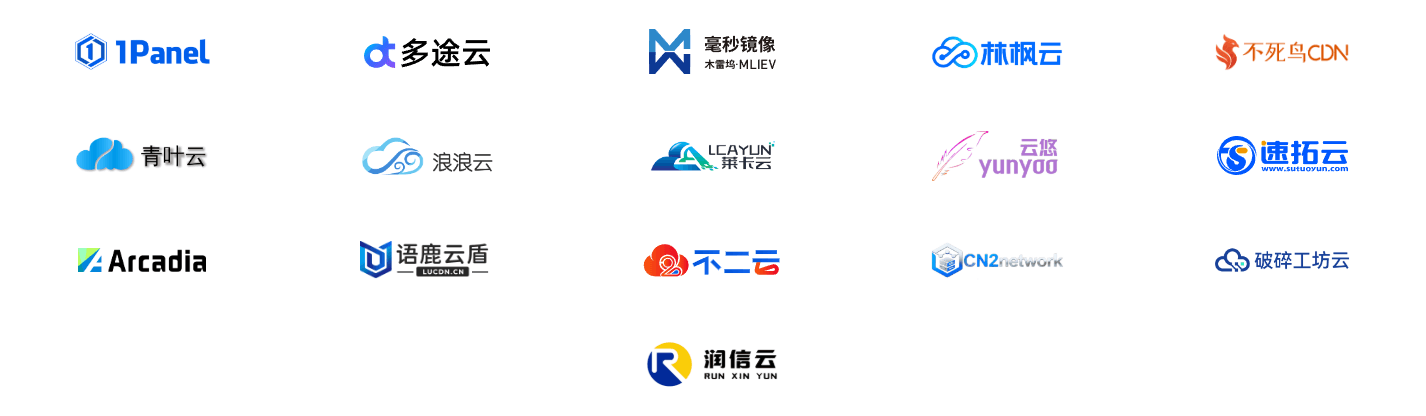
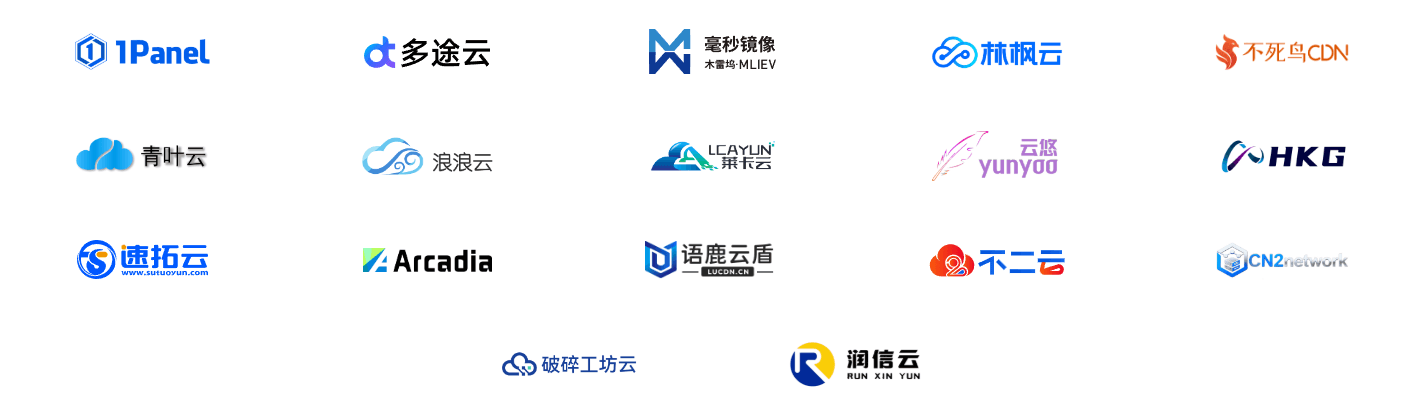
更新文档

diff --git a/docs/theme/partials/toc.html b/docs/theme/partials/toc.html
@@ -14,7 +14,7 @@
         <strong>{{'Sponsors' if i18n_page_locale == 'en' else '贊助商' if i18n_page_locale == 'zh-Hant' else '赞助商'}}</strong>
       </div>
       <div class="sponsor-wrapper sponsor-flex-wrapper-toc no-select">
-        <a class="sponsor-item sponsor-item-toc" target="_blank" rel="noopener noreferrer" href="https://1panel.cn" title="新一代的 Linux 服务器运维管理面板">
+        <a class="sponsor-item sponsor-item-toc sponsor-item-toc-full-row" target="_blank" rel="noopener noreferrer" href="https://1panel.cn" title="新一代的 Linux 服务器运维管理面板">
           <img src="/assets/images/sponsor/1panel.png" alt="1Panel" style="filter: grayscale(1) invert(0.6)" />
         </a>
         <a class="sponsor-item sponsor-item-toc" target="_blank" rel="noopener noreferrer" href="https://www.duotuyun.com" title="智能化防护，每一次连接皆在安全之下">
@@ -48,6 +48,10 @@
         <a class="sponsor-item sponsor-item-toc" target="_blank" rel="noopener noreferrer" href="https://yunyoo.cc/aff/KPTJHNWM" title="全球高性价比云服务器｜低至15.99元起">
           <img src="/assets/images/sponsor/yunyoo.png#only-light" alt="云悠YUNYOO" style="filter: grayscale(1) brightness(1)" />
           <img src="/assets/images/sponsor/yunyoo.png#only-dark" alt="云悠YUNYOO" style="filter: grayscale(1) brightness(1.1)" />
+        </a>
+        <a class="sponsor-item sponsor-item-toc" target="_blank" href="https://www.hkgserver.com" title="HKGserver - 全球家宽｜双ISP｜住宅原生云服务器54元/月起">
+          <img src="/assets/images/sponsor/hkgserver-light.png#only-light" alt="HKGserver" style="filter: grayscale(1) invert(0.5)" />
+          <img src="/assets/images/sponsor/hkgserver-dark.png#only-dark" alt="HKGserver" style="filter: grayscale(1) invert(0.4)" />
         </a>
         <a class="sponsor-item sponsor-item-toc" target="_blank" rel="noopener noreferrer" href="https://www.sutuoyun.com" title="国内高防云28元/月｜香港云100M优化线路9元/月">
           <img src="/assets/images/sponsor/sutuoyun.svg#only-light" alt="速拓云" />

diff --git a/docs/sponsor/main.html b/docs/sponsor/main.html
@@ -43,6 +43,11 @@
       <!-- 26 9 5 -->
       <img src="/assets/images/sponsor/yunyoo.png" alt="云悠YUNYOO" />
     </a>
+    <a class="sponsor-item sponsor-item-flex" target="_blank" href="https://www.hkgserver.com" title="HKGserver - 全球家宽｜双ISP｜住宅原生云服务器54元/月起">
+      <!-- 26 12 17 -->
+      <img src="/assets/images/sponsor/hkgserver-light.png#only-light" alt="HKGserver" />
+      <img src="/assets/images/sponsor/hkgserver-dark.png#only-dark" alt="HKGserver" />
+    </a>
     <a class="sponsor-item sponsor-item-flex" target="_blank" rel="noopener noreferrer" href="https://www.sutuoyun.com" title="国内高防云28元/月｜香港云100M优化线路9元/月">
       <!-- 25 12 23 -->
       <img src="/assets/images/sponsor/sutuoyun.svg" alt="速拓云" style="width: 58% !important" />
@@ -57,7 +62,7 @@
       <img src="/assets/images/sponsor/yuluyundun-dark.png#only-dark" alt="语鹿云盾" />
     </a>
     <a class="sponsor-item sponsor-item-flex" target="_blank" rel="noopener noreferrer" href="https://cb2.cn" title="国内外建站快响应服务器的不二之选">
-      <!-- 25 11 14 -->
+      <!-- 25 12 15 -->
       <img src="/assets/images/sponsor/bueryun.svg" alt="不二云" style="width: 64% !important" />
     </a>
     <a class="sponsor-item sponsor-item-flex" target="_blank" rel="noopener noreferrer" href="https://idc.cn2network.com" title="超低价优质机器免实名自动开通">
